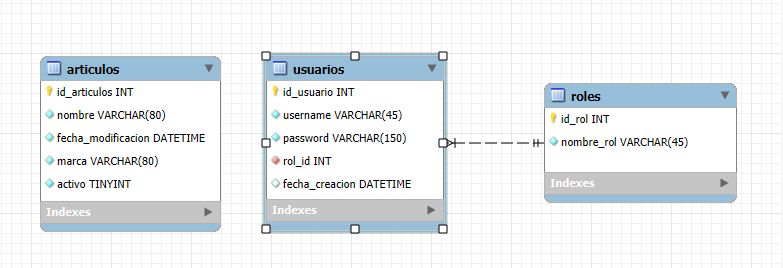
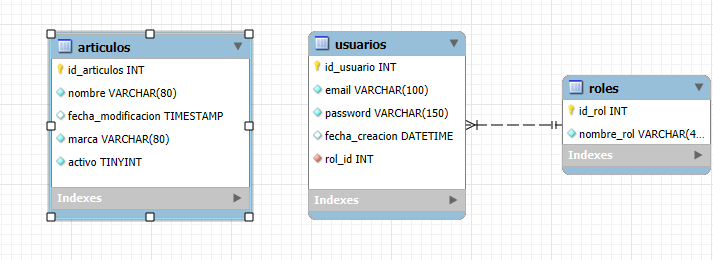
removed username from usuarios

diff --git a/src/validations/auth.schema.ts b/src/validations/auth.schema.ts
@@ -1,14 +1,11 @@
 import { z } from 'zod';
 
 export const loginSchema = z.object({
-  username: z
-    .string({
-      required_error: 'Missing username',
-    })
-    .min(1, 'Username cannot be empty')
-    .max(25, 'Username cannot exceed 25 characters')
-    .regex(/^[a-zA-Z0-9]+$/, 'Username must contain only letters and numbers'),
-    
+    email: z
+      .string({
+        required_error: 'Missing email',
+      })
+      .email('Invalid email format'),    
   password: z
     .string({
       required_error: 'Missing password',
@@ -18,23 +15,14 @@ export const loginSchema = z.object({
 
 
 export const registerSchema = z.object({
-    username: z
-      .string({
-        required_error: 'Missing username',
-      })
-      .min(1, 'Username cannot be empty')
-      .max(25, 'Username cannot exceed 25 characters')
-      .regex(/^[a-zA-Z0-9]+$/, 'Username must contain only letters and numbers'),
-      
+    email: z
+    .string({
+      required_error: 'Missing email',
+    })
+    .email('Invalid email format'),
     password: z
       .string({
         required_error: 'Missing password',
       })
       .min(4, 'Password must be at least 4 characters long'),
-      
-    email: z
-      .string({
-        required_error: 'Missing email',
-      })
-      .email('Invalid email format'),
   });

diff --git a/src/controllers/auth.controller.ts b/src/controllers/auth.controller.ts
@@ -1,7 +1,7 @@
 import { Request, Response } from "express"
 import { registerNewUser, loginUser} from "../services/auth.service"
 const registerController = async (req: Request, res: Response) => {
-
+    const responseUser = await registerNewUser()
 }
 const loginController = async (req: Request, res: Response) => {
     

diff --git a/src/services/auth.service.ts b/src/services/auth.service.ts
@@ -1,4 +1,6 @@
-const registerNewUser = async () =>{
+import { Auth } from "../interfaces/auth.interface";
+
+const registerNewUser = async (authUser: Auth) =>{
 
 }
 
